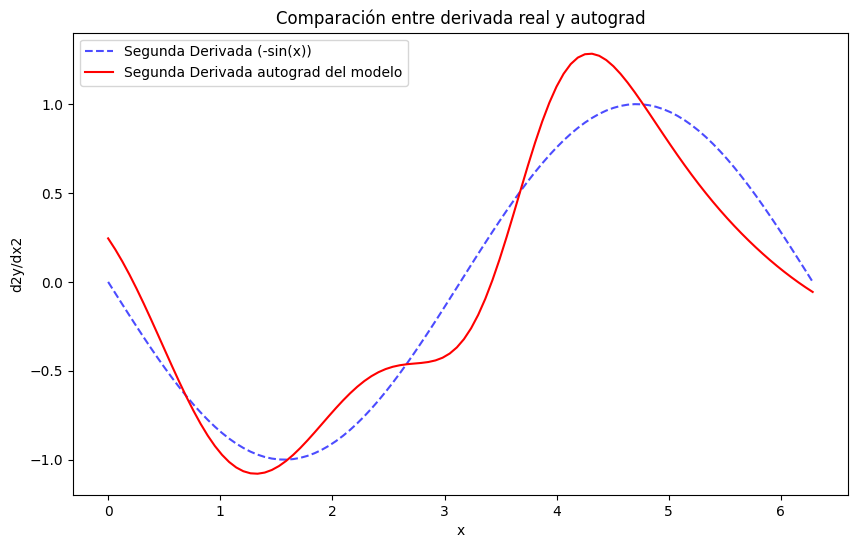
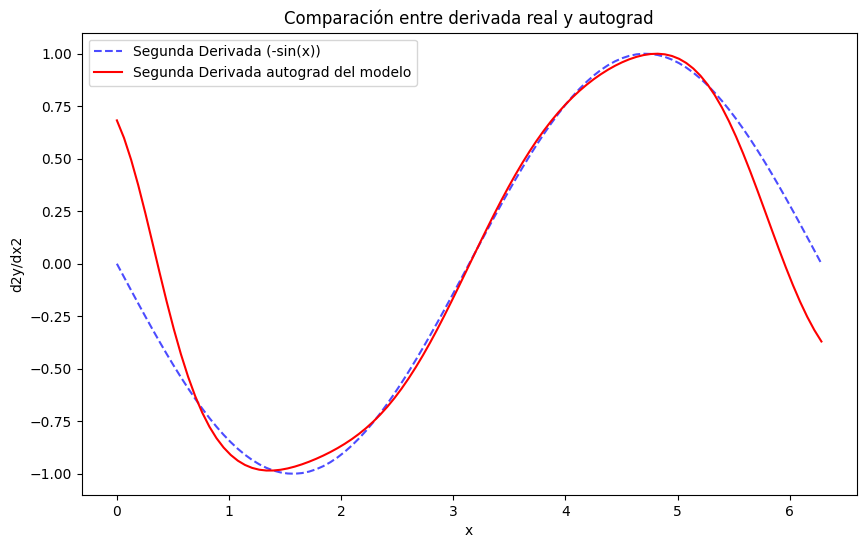
Built site for gh-pages

diff --git a/PINN_intro.html b/PINN_intro.html
@@ -155,7 +155,7 @@ window.Quarto = {
             <ul class="navbar-nav navbar-nav-scroll me-auto">
   <li class="nav-item">
     <a class="nav-link active" href="./PINN_intro.html" aria-current="page"> 
-<span class="menu-text">Inicio</span></a>
+<span class="menu-text">PINN intro</span></a>
   </li>  
 </ul>
           </div> <!-- /navcollapse -->
@@ -177,21 +177,21 @@ window.Quarto = {
   <ul class="collapse">
   <li><a href="#referencias" id="toc-referencias" class="nav-link" data-scroll-target="#referencias"><span class="header-section-number">1.1</span> Referencias</a></li>
   </ul></li>
-  <li><a href="#getting-started" id="toc-getting-started" class="nav-link" data-scroll-target="#getting-started"><span class="header-section-number">2</span> Getting started</a>
+  <li><a href="#requisitos-y-ejecución" id="toc-requisitos-y-ejecución" class="nav-link" data-scroll-target="#requisitos-y-ejecución"><span class="header-section-number">2</span> 📘 Requisitos y ejecución</a>
   <ul class="collapse">
   <li><a href="#punto-de-partida-necesitamos-datos" id="toc-punto-de-partida-necesitamos-datos" class="nav-link" data-scroll-target="#punto-de-partida-necesitamos-datos"><span class="header-section-number">2.1</span> 🔢 Punto de partida: ¡Necesitamos datos!</a></li>
   <li><a href="#red-neuronal" id="toc-red-neuronal" class="nav-link" data-scroll-target="#red-neuronal"><span class="header-section-number">2.2</span> 🕸 Red Neuronal</a></li>
   <li><a href="#autograd" id="toc-autograd" class="nav-link" data-scroll-target="#autograd"><span class="header-section-number">2.3</span> ⚙ <strong>Autograd</strong></a></li>
   </ul></li>
-  <li><a href="#case-of-study-ecuación-de-poisson-1d" id="toc-case-of-study-ecuación-de-poisson-1d" class="nav-link" data-scroll-target="#case-of-study-ecuación-de-poisson-1d"><span class="header-section-number">3</span> <span style="color:#1f77b4;">Case of Study:</span> Ecuación de Poisson 1D</a>
+  <li><a href="#ejemplo-guiado-ecuación-de-poisson-1d" id="toc-ejemplo-guiado-ecuación-de-poisson-1d" class="nav-link" data-scroll-target="#ejemplo-guiado-ecuación-de-poisson-1d"><span class="header-section-number">3</span> <span style="color:#1f77b4;">Ejemplo guiado:</span> Ecuación de Poisson 1D</a>
   <ul class="collapse">
   <li><a href="#extras" id="toc-extras" class="nav-link" data-scroll-target="#extras"><span class="header-section-number">3.0.1</span> Extras:</a></li>
   </ul></li>
-  <li><a href="#case-of-study-oscilador-armónico-en-1d" id="toc-case-of-study-oscilador-armónico-en-1d" class="nav-link" data-scroll-target="#case-of-study-oscilador-armónico-en-1d"><span class="header-section-number">4</span> <span style="color:#1f77b4;">Case of study:</span> Oscilador armónico en 1D</a>
+  <li><a href="#ejemplo-guiado-oscilador-armónico-en-1d" id="toc-ejemplo-guiado-oscilador-armónico-en-1d" class="nav-link" data-scroll-target="#ejemplo-guiado-oscilador-armónico-en-1d"><span class="header-section-number">4</span> <span style="color:#1f77b4;">Ejemplo guiado:</span> Oscilador armónico en 1D</a>
   <ul class="collapse">
   <li><a href="#extra" id="toc-extra" class="nav-link" data-scroll-target="#extra"><span class="header-section-number">4.0.1</span> Extra:</a></li>
   </ul></li>
-  <li><a href="#case-of-study-ecuación-de-helmholtz" id="toc-case-of-study-ecuación-de-helmholtz" class="nav-link" data-scroll-target="#case-of-study-ecuación-de-helmholtz"><span class="header-section-number">5</span> <span style="color:#1f77b4;">Case of Study:</span> Ecuación de Helmholtz</a></li>
+  <li><a href="#ejemplo-guiado-ecuación-de-helmholtz" id="toc-ejemplo-guiado-ecuación-de-helmholtz" class="nav-link" data-scroll-target="#ejemplo-guiado-ecuación-de-helmholtz"><span class="header-section-number">5</span> <span style="color:#1f77b4;">Ejemplo guiado:</span> Ecuación de Helmholtz</a></li>
   <li><a href="#case-of-study-poisson-en-2d" id="toc-case-of-study-poisson-en-2d" class="nav-link" data-scroll-target="#case-of-study-poisson-en-2d"><span class="header-section-number">6</span> <span style="color:#1f77b4;">Case of study:</span> Poisson en 2D</a></li>
   <li><a href="#case-of-study-poisson-en-2d-con-una-singularidad-de-esquina" id="toc-case-of-study-poisson-en-2d-con-una-singularidad-de-esquina" class="nav-link" data-scroll-target="#case-of-study-poisson-en-2d-con-una-singularidad-de-esquina"><span class="header-section-number">7</span> <span style="color:#1f77b4;">Case of study:</span> Poisson en 2D con una singularidad de esquina</a></li>
   </ul>
@@ -234,14 +234,42 @@ Universidad de Valparaíso
 <li><p><a href="https://arxiv.org/abs/2308.08468">AN EXPERT’S GUIDE TO TRAINING PHYSICS-INFORMED NEURAL NETWORKS</a></p></li>
 <li><p><a href="https://github.com/idrl-lab/PINNpapers?tab=readme-ov-file#pinnpapers">PINNpapers</a></p></li>
 </ul>
-<p>Ejemplos en Gravitactión y Cosmología: - <a href="https://arxiv.org/abs/2508.12032">Cosmology-informed Neural Networks to infer dark energy equation-of-state</a> - <a href="https://arxiv.org/pdf/2507.11589">EINSTEIN FIELDS: A NEURAL PERSPECTIVE TO COMPUTATIONAL GENERAL RELATIVITY</a> - <a href="https://arxiv.org/abs/2506.02957">Advancing Cosmological Simulations of Fuzzy Dark Matter with PINN</a> - <a href="https://arxiv.org/abs/2502.13043">AInstein: Numerical Einstein Metrics via Machine Learning</a> - <a href="https://arxiv.org/abs/2404.11583">Quasinormal Modes in Modified Gravity using PINN</a> - <a href="https://arxiv.org/abs/2403.13899">PINNferring the Hubble Function with Uncertainties</a> - <a href="https://arxiv.org/abs/2402.11343">Solving the Regge-Wheeler and Teukolsky equations: supervised versus unsupervised PINN</a> - <a href="https://arxiv.org/abs/2305.08448">Gradient-Annihilated PINNs for Solving Riemann Problems: Application to Relativistic Hydrodynamics</a> - <a href="https://arxiv.org/abs/2212.06103">Solving the Teukolsky equation with PINN</a></p>
+<p>Ejemplos en Gravitactión y Cosmología:</p>
+<ul>
+<li><a href="https://arxiv.org/abs/2508.12032">Cosmology-informed Neural Networks to infer dark energy equation-of-state</a></li>
+<li><a href="https://arxiv.org/pdf/2507.11589">EINSTEIN FIELDS: A NEURAL PERSPECTIVE TO COMPUTATIONAL GENERAL RELATIVITY</a></li>
+<li><a href="https://arxiv.org/abs/2506.02957">Advancing Cosmological Simulations of Fuzzy Dark Matter with PINN</a></li>
+<li><a href="https://arxiv.org/abs/2502.13043">AInstein: Numerical Einstein Metrics via Machine Learning</a></li>
+<li><a href="https://arxiv.org/abs/2404.11583">Quasinormal Modes in Modified Gravity using PINN</a></li>
+<li><a href="https://arxiv.org/abs/2403.13899">PINNferring the Hubble Function with Uncertainties</a></li>
+<li><a href="https://arxiv.org/abs/2402.11343">Solving the Regge-Wheeler and Teukolsky equations: supervised versus unsupervised PINN</a></li>
+<li><a href="https://arxiv.org/abs/2305.08448">Gradient-Annihilated PINNs for Solving Riemann Problems: Application to Relativistic Hydrodynamics</a></li>
+<li><a href="https://arxiv.org/abs/2212.06103">Solving the Teukolsky equation with PINN</a></li>
+</ul>
 </section>
 </section>
-<section id="getting-started" class="level1" data-number="2">
-<h1 data-number="2"><span class="header-section-number">2</span> Getting started</h1>
-<p>En este curso utilizaremos <code>PyTorch</code> como la principal librería de Python para construir y entrenar redes neuronales. Asumiremos que ya tienes familiaridad con las siguientes herramientas: - Github - Python - Jupyter notebooks - Numpy, Matplotlib, scipy - pytorch</p>
-<p>Existen, sin embargo, otras alternativas ampliamente utilizadas en investigación y la industria: 1. <a href="https://www.tensorflow.org/">TensorFlow/Keras</a> 1. <a href="https://docs.jax.dev/en/latest/notebooks/thinking_in_jax.html">JAX</a> 1. <a href="https://sciml.ai/">SciML/Julia</a></p>
-<p>Además de las herramientas mencionadas, este notebook asume que tienes nociones básicas de lo siguiente: - Neural network (NN) - Multilayer Perceptron (MLP) - Entrenamiento de una NN -&gt; Regresión/Clasificación</p>
+<section id="requisitos-y-ejecución" class="level1" data-number="2">
+<h1 data-number="2"><span class="header-section-number">2</span> 📘 Requisitos y ejecución</h1>
+<p>En este curso utilizaremos <code>PyTorch</code> como la principal librería de Python para construir y entrenar redes neuronales. Asumiremos que ya tienes familiaridad con las siguientes herramientas:</p>
+<ul>
+<li>Github</li>
+<li>Python</li>
+<li>Jupyter notebooks</li>
+<li>Numpy, Matplotlib, scipy</li>
+<li>pytorch</li>
+</ul>
+<p>Existen, sin embargo, otras alternativas ampliamente utilizadas en investigación y la industria:</p>
+<ol type="1">
+<li><a href="https://www.tensorflow.org/">TensorFlow/Keras</a></li>
+<li><a href="https://docs.jax.dev/en/latest/notebooks/thinking_in_jax.html">JAX</a></li>
+<li><a href="https://sciml.ai/">SciML/Julia</a></li>
+</ol>
+<p>Además de las herramientas mencionadas, este notebook asume que tienes nociones básicas de lo siguiente:</p>
+<ul>
+<li>Neural network (NN)</li>
+<li>Multilayer Perceptron (MLP)</li>
+<li>Entrenamiento de una NN -&gt; Regresión/Clasificación</li>
+</ul>
 <div id="99c1c3dc" class="cell" data-execution_count="1">
 <div class="code-copy-outer-scaffold"><div class="sourceCode cell-code" id="cb1"><pre class="sourceCode python code-with-copy"><code class="sourceCode python"><span id="cb1-1"><a href="#cb1-1" aria-hidden="true" tabindex="-1"></a><span class="im">import</span> torch</span>
 <span id="cb1-2"><a href="#cb1-2" aria-hidden="true" tabindex="-1"></a><span class="im">import</span> torch.nn <span class="im">as</span> nn</span>
@@ -420,16 +448,16 @@ Universidad de Valparaíso
 <span id="cb9-10"><a href="#cb9-10" aria-hidden="true" tabindex="-1"></a>    <span class="cf">if</span> (epoca<span class="op">+</span><span class="dv">1</span>) <span class="op">%</span> <span class="dv">100</span> <span class="op">==</span> <span class="dv">0</span>:</span>
 <span id="cb9-11"><a href="#cb9-11" aria-hidden="true" tabindex="-1"></a>        <span class="bu">print</span>(<span class="ss">f'Epoch [</span><span class="sc">{</span>epoca<span class="op">+</span><span class="dv">1</span><span class="sc">}</span><span class="ss">/</span><span class="sc">{</span>num_epocas<span class="sc">}</span><span class="ss">], Loss: </span><span class="sc">{</span>loss<span class="sc">:.4f}</span><span class="ss">'</span>)</span></code></pre></div><button title="Copy to Clipboard" class="code-copy-button"><i class="bi"></i></button></div>
 <div class="cell-output cell-output-stdout">
-<pre><code>Epoch [100/1000], Loss: 0.0822
-Epoch [200/1000], Loss: 0.0609
-Epoch [300/1000], Loss: 0.0545
-Epoch [400/1000], Loss: 0.0507
-Epoch [500/1000], Loss: 0.0489
-Epoch [600/1000], Loss: 0.0215
-Epoch [700/1000], Loss: 0.0126
-Epoch [800/1000], Loss: 0.0112
-Epoch [900/1000], Loss: 0.0107
-Epoch [1000/1000], Loss: 0.0104</code></pre>
+<pre><code>Epoch [100/1000], Loss: 0.0941
+Epoch [200/1000], Loss: 0.0522
+Epoch [300/1000], Loss: 0.0293
+Epoch [400/1000], Loss: 0.0164
+Epoch [500/1000], Loss: 0.0117
+Epoch [600/1000], Loss: 0.0107
+Epoch [700/1000], Loss: 0.0105
+Epoch [800/1000], Loss: 0.0104
+Epoch [900/1000], Loss: 0.0104
+Epoch [1000/1000], Loss: 0.0103</code></pre>
 </div>
 </div>
 <p>Ya tenemos nuestro modelo entrenado! Pero… <strong>¿realmente aprendió algo útil?</strong></p>
@@ -583,8 +611,8 @@ Epoch [1000/1000], Loss: 0.0104</code></pre>
 </div>
 </section>
 </section>
-<section id="case-of-study-ecuación-de-poisson-1d" class="level1" data-number="3">
-<h1 data-number="3"><span class="header-section-number">3</span> <span style="color:#1f77b4;">Case of Study:</span> Ecuación de Poisson 1D</h1>
+<section id="ejemplo-guiado-ecuación-de-poisson-1d" class="level1" data-number="3">
+<h1 data-number="3"><span class="header-section-number">3</span> <span style="color:#1f77b4;">Ejemplo guiado:</span> Ecuación de Poisson 1D</h1>
 <p>Queremos resolver la ecuación de Poisson:</p>
 <p><span class="math display">\[-\frac{d^2 V}{dx^2} = \rho(x), \quad x \in [0, L] \;, \]</span> con las siguientes condiciones de borde:</p>
 <p><span class="math display">\[V(0) = V(L) = 0 \, .\]</span></p>
@@ -754,7 +782,7 @@ G(x, x') = \begin{cases} \frac{x(L - x')}{L}, &amp; x &lt; x' \\ \frac{x'(L - x)
 <span id="cb21-25"><a href="#cb21-25" aria-hidden="true" tabindex="-1"></a>        y_pred <span class="op">=</span> model(x_test.view(<span class="op">-</span><span class="dv">1</span>, <span class="dv">1</span>)).cpu().numpy()</span>
 <span id="cb21-26"><a href="#cb21-26" aria-hidden="true" tabindex="-1"></a>    <span class="cf">return</span> y_pred</span></code></pre></div><button title="Copy to Clipboard" class="code-copy-button"><i class="bi"></i></button></div>
 </div>
-<div id="20492b65" class="cell" data-execution_count="19">
+<div id="20492b65" class="cell" data-execution_count="23">
 <div class="code-copy-outer-scaffold"><div class="sourceCode cell-code" id="cb22"><pre class="sourceCode python code-with-copy"><code class="sourceCode python"><span id="cb22-1"><a href="#cb22-1" aria-hidden="true" tabindex="-1"></a>modelo <span class="op">=</span> MLP()</span>
 <span id="cb22-2"><a href="#cb22-2" aria-hidden="true" tabindex="-1"></a>criterio <span class="op">=</span> PoissonLoss(L<span class="op">=</span>L)</span>
 <span id="cb22-3"><a href="#cb22-3" aria-hidden="true" tabindex="-1"></a>optimizer <span class="op">=</span> optim.Adam(modelo.parameters(), lr<span class="op">=</span><span class="fl">1e-3</span>)</span>
@@ -778,19 +806,19 @@ G(x, x') = \begin{cases} \frac{x(L - x')}{L}, &amp; x &lt; x' \\ \frac{x'(L - x)
 <span id="cb22-21"><a href="#cb22-21" aria-hidden="true" tabindex="-1"></a>    <span class="cf">if</span> (epoca<span class="op">+</span><span class="dv">1</span>)<span class="op">%</span><span class="dv">1000</span><span class="op">==</span><span class="dv">0</span>:</span>
 <span id="cb22-22"><a href="#cb22-22" aria-hidden="true" tabindex="-1"></a>        <span class="bu">print</span>(<span class="ss">f"Epoch </span><span class="sc">{</span>epoca<span class="op">+</span><span class="dv">1</span><span class="sc">}</span><span class="ss">/</span><span class="sc">{</span>num_epocas<span class="sc">}</span><span class="ss">, Loss = </span><span class="sc">{</span>loss<span class="sc">:.2e}</span><span class="ss">"</span>)</span></code></pre></div><button title="Copy to Clipboard" class="code-copy-button"><i class="bi"></i></button></div>
 <div class="cell-output cell-output-stdout">
-<pre><code>Epoch 1000/10000, Loss = 2.35e-01
-Epoch 2000/10000, Loss = 2.16e-01
-Epoch 3000/10000, Loss = 1.90e-01
-Epoch 4000/10000, Loss = 1.63e-01
-Epoch 5000/10000, Loss = 9.70e-02
-Epoch 6000/10000, Loss = 4.91e-02
-Epoch 7000/10000, Loss = 3.96e-02
-Epoch 8000/10000, Loss = 2.47e-02
-Epoch 9000/10000, Loss = 9.89e-03
-Epoch 10000/10000, Loss = 4.78e-03</code></pre>
+<pre><code>Epoch 1000/10000, Loss = 1.47e-01
+Epoch 2000/10000, Loss = 1.37e-01
+Epoch 3000/10000, Loss = 1.22e-01
+Epoch 4000/10000, Loss = 1.06e-01
+Epoch 5000/10000, Loss = 8.13e-02
+Epoch 6000/10000, Loss = 4.52e-02
+Epoch 7000/10000, Loss = 3.49e-02
+Epoch 8000/10000, Loss = 3.10e-02
+Epoch 9000/10000, Loss = 2.25e-02
+Epoch 10000/10000, Loss = 1.25e-02</code></pre>
 </div>
 </div>
-<div id="4faf8466" class="cell" data-execution_count="20">
+<div id="4faf8466" class="cell" data-execution_count="24">
 <div class="code-copy-outer-scaffold"><div class="sourceCode cell-code" id="cb24"><pre class="sourceCode python code-with-copy"><code class="sourceCode python"><span id="cb24-1"><a href="#cb24-1" aria-hidden="true" tabindex="-1"></a>x_test <span class="op">=</span> torch.tensor(xs, dtype<span class="op">=</span>torch.float32).view(<span class="op">-</span><span class="dv">1</span>, <span class="dv">1</span>)</span>
 <span id="cb24-2"><a href="#cb24-2" aria-hidden="true" tabindex="-1"></a></span>
 <span id="cb24-3"><a href="#cb24-3" aria-hidden="true" tabindex="-1"></a>V_pred <span class="op">=</span> evaluate(modelo, x_test)</span>
@@ -819,8 +847,8 @@ Epoch 10000/10000, Loss = 4.78e-03</code></pre>
 </ul>
 </section>
 </section>
-<section id="case-of-study-oscilador-armónico-en-1d" class="level1" data-number="4">
-<h1 data-number="4"><span class="header-section-number">4</span> <span style="color:#1f77b4;">Case of study:</span> Oscilador armónico en 1D</h1>
+<section id="ejemplo-guiado-oscilador-armónico-en-1d" class="level1" data-number="4">
+<h1 data-number="4"><span class="header-section-number">4</span> <span style="color:#1f77b4;">Ejemplo guiado:</span> Oscilador armónico en 1D</h1>
 <p>El oscilador armónico amortiguado en 1D:</p>
 <p><span class="math display">\[m \dfrac{d^2 x}{d t^2} + \mu \dfrac{d x}{d t} + kx = 0~, \]</span></p>
 <p>con condiciones iniciales: <span class="math display">\[x(0) = 1, \quad \dfrac{d x}{d t} = 0\]</span></p>
@@ -906,16 +934,16 @@ x(t) = e^{-\delta t}(2 A \cos(\phi + \omega t)),\quad\mathrm{con}\quad \omega=\s
 <span id="cb27-15"><a href="#cb27-15" aria-hidden="true" tabindex="-1"></a>    <span class="cf">if</span> (epoch<span class="op">+</span><span class="dv">1</span>) <span class="op">%</span> <span class="dv">1000</span> <span class="op">==</span> <span class="dv">0</span>:</span>
 <span id="cb27-16"><a href="#cb27-16" aria-hidden="true" tabindex="-1"></a>        <span class="bu">print</span>(<span class="ss">f"Epoch </span><span class="sc">{</span>epoch<span class="op">+</span><span class="dv">1</span><span class="sc">}</span><span class="ss">: Loss = </span><span class="sc">{</span>loss<span class="sc">.</span>item()<span class="sc">:.2e}</span><span class="ss">"</span>)</span></code></pre></div><button title="Copy to Clipboard" class="code-copy-button"><i class="bi"></i></button></div>
 <div class="cell-output cell-output-stdout">
-<pre><code>Epoch 1000: Loss = 9.04e+02
-Epoch 2000: Loss = 6.81e+02
-Epoch 3000: Loss = 4.81e+02
-Epoch 4000: Loss = 2.41e+02
-Epoch 5000: Loss = 1.29e+02
-Epoch 6000: Loss = 9.47e+01
-Epoch 7000: Loss = 5.47e+01
-Epoch 8000: Loss = 3.14e+01
-Epoch 9000: Loss = 2.38e+01
-Epoch 10000: Loss = 1.83e+01</code></pre>
+<pre><code>Epoch 1000: Loss = 9.65e+02
+Epoch 2000: Loss = 9.50e+02
+Epoch 3000: Loss = 6.89e+02
+Epoch 4000: Loss = 3.73e+02
+Epoch 5000: Loss = 2.41e+02
+Epoch 6000: Loss = 1.64e+02
+Epoch 7000: Loss = 1.25e+02
+Epoch 8000: Loss = 1.06e+02
+Epoch 9000: Loss = 7.06e+01
+Epoch 10000: Loss = 3.03e+01</code></pre>
 </div>
 </div>
 <div id="1c2cb6ad" class="cell" data-execution_count="24">
@@ -964,8 +992,8 @@ Epoch 10000: Loss = 1.83e+01</code></pre>
 <p>¿Cómo ayuda esta reparametrización de la red? ¿Toma más o menos épocas en converger la solución? ¿Mejora el ajuste entre el valor analítico y la solución de nuestro modelo? ¿Vale la pena el trabajo extra?</p>
 </section>
 </section>
-<section id="case-of-study-ecuación-de-helmholtz" class="level1" data-number="5">
-<h1 data-number="5"><span class="header-section-number">5</span> <span style="color:#1f77b4;">Case of Study:</span> Ecuación de Helmholtz</h1>
+<section id="ejemplo-guiado-ecuación-de-helmholtz" class="level1" data-number="5">
+<h1 data-number="5"><span class="header-section-number">5</span> <span style="color:#1f77b4;">Ejemplo guiado:</span> Ecuación de Helmholtz</h1>
 <p>Modelamos una cavidad electromagnética unidimensional de longitud (L) con paredes perfectamente conductoras.</p>
 <p>Ecuación diferencial parcial (EDP):</p>
 <p><span class="math display">\[\frac{d^2 E(x)}{dx^2} + k^2 E(x) = 0, \quad x \in \Omega = [0, L]\]</span></p>
@@ -1058,7 +1086,7 @@ Epoch 10000: Loss = 1.83e+01</code></pre>
 <span id="cb32-12"><a href="#cb32-12" aria-hidden="true" tabindex="-1"></a>        y_pred <span class="op">=</span> model(x_test.view(<span class="op">-</span><span class="dv">1</span>, <span class="dv">1</span>)).cpu().numpy()</span>
 <span id="cb32-13"><a href="#cb32-13" aria-hidden="true" tabindex="-1"></a>    <span class="cf">return</span> y_pred</span></code></pre></div><button title="Copy to Clipboard" class="code-copy-button"><i class="bi"></i></button></div>
 </div>
-<div id="828f8def" class="cell" data-execution_count="32">
+<div id="828f8def" class="cell" data-execution_count="28">
 <div class="code-copy-outer-scaffold"><div class="sourceCode cell-code" id="cb33"><pre class="sourceCode python code-with-copy"><code class="sourceCode python"><span id="cb33-1"><a href="#cb33-1" aria-hidden="true" tabindex="-1"></a>num_epochs <span class="op">=</span> <span class="dv">10000</span></span>
 <span id="cb33-2"><a href="#cb33-2" aria-hidden="true" tabindex="-1"></a>box_size <span class="op">=</span> <span class="dv">1</span></span>
 <span id="cb33-3"><a href="#cb33-3" aria-hidden="true" tabindex="-1"></a>num_points <span class="op">=</span> <span class="dv">1000</span></span>
@@ -1073,19 +1101,19 @@ Epoch 10000: Loss = 1.83e+01</code></pre>
 <span id="cb33-12"><a href="#cb33-12" aria-hidden="true" tabindex="-1"></a>    <span class="cf">if</span> (epoch<span class="op">+</span><span class="dv">1</span>) <span class="op">%</span> <span class="dv">1000</span> <span class="op">==</span> <span class="dv">0</span>:</span>
 <span id="cb33-13"><a href="#cb33-13" aria-hidden="true" tabindex="-1"></a>        <span class="bu">print</span>(<span class="ss">f'Epoch [</span><span class="sc">{</span>epoch<span class="op">+</span><span class="dv">1</span><span class="sc">}</span><span class="ss">/</span><span class="sc">{</span>num_epochs<span class="sc">}</span><span class="ss">], Loss: </span><span class="sc">{</span>loss<span class="sc">:.4e}</span><span class="ss">'</span>)</span></code></pre></div><button title="Copy to Clipboard" class="code-copy-button"><i class="bi"></i></button></div>
 <div class="cell-output cell-output-stdout">
-<pre><code>Epoch [1000/10000], Loss: 4.1026e-01
-Epoch [2000/10000], Loss: 6.4919e-03
-Epoch [3000/10000], Loss: 1.1377e-03
-Epoch [4000/10000], Loss: 1.0379e-03
-Epoch [5000/10000], Loss: 1.0426e-03
-Epoch [6000/10000], Loss: 1.6908e-04
-Epoch [7000/10000], Loss: 2.4824e-03
-Epoch [8000/10000], Loss: 4.4539e-05
-Epoch [9000/10000], Loss: 1.0288e-03
-Epoch [10000/10000], Loss: 1.0586e-04</code></pre>
+<pre><code>Epoch [1000/10000], Loss: 9.7957e-01
+Epoch [2000/10000], Loss: 1.0372e-03
+Epoch [3000/10000], Loss: 7.4442e-04
+Epoch [4000/10000], Loss: 4.5278e-04
+Epoch [5000/10000], Loss: 2.9588e-04
+Epoch [6000/10000], Loss: 9.4307e-05
+Epoch [7000/10000], Loss: 1.4104e-04
+Epoch [8000/10000], Loss: 6.5982e-05
+Epoch [9000/10000], Loss: 1.8265e-04
+Epoch [10000/10000], Loss: 2.3351e-03</code></pre>
 </div>
 </div>
-<div id="8e16173a" class="cell" data-execution_count="33">
+<div id="8e16173a" class="cell" data-execution_count="29">
 <div class="code-copy-outer-scaffold"><div class="sourceCode cell-code" id="cb35"><pre class="sourceCode python code-with-copy"><code class="sourceCode python"><span id="cb35-1"><a href="#cb35-1" aria-hidden="true" tabindex="-1"></a>x_test <span class="op">=</span> torch.linspace(<span class="dv">0</span>, box_size, <span class="dv">200</span>).view(<span class="op">-</span><span class="dv">1</span>,<span class="dv">1</span>)</span>
 <span id="cb35-2"><a href="#cb35-2" aria-hidden="true" tabindex="-1"></a>E_pred <span class="op">=</span> evaluate(modelo, x_test)</span>
 <span id="cb35-3"><a href="#cb35-3" aria-hidden="true" tabindex="-1"></a>E_true <span class="op">=</span> np.sqrt(<span class="dv">2</span>)<span class="op">*</span>np.sin(np.pi<span class="op">*</span>x_test.cpu().numpy() <span class="op">/</span> box_size)</span>

diff --git a/PINN_escuela_2025.html b/PINN_escuela_2025.html
@@ -91,7 +91,7 @@ ul.task-list li input[type="checkbox"] {
             <ul class="navbar-nav navbar-nav-scroll me-auto">
   <li class="nav-item">
     <a class="nav-link" href="./PINN_intro.html"> 
-<span class="menu-text">Inicio</span></a>
+<span class="menu-text">PINN intro</span></a>
   </li>  
 </ul>
           </div> <!-- /navcollapse -->

diff --git a/index.html b/index.html
@@ -91,7 +91,7 @@ ul.task-list li input[type="checkbox"] {
             <ul class="navbar-nav navbar-nav-scroll me-auto">
   <li class="nav-item">
     <a class="nav-link" href="./PINN_intro.html"> 
-<span class="menu-text">Inicio</span></a>
+<span class="menu-text">PINN intro</span></a>
   </li>  
 </ul>
           </div> <!-- /navcollapse -->
